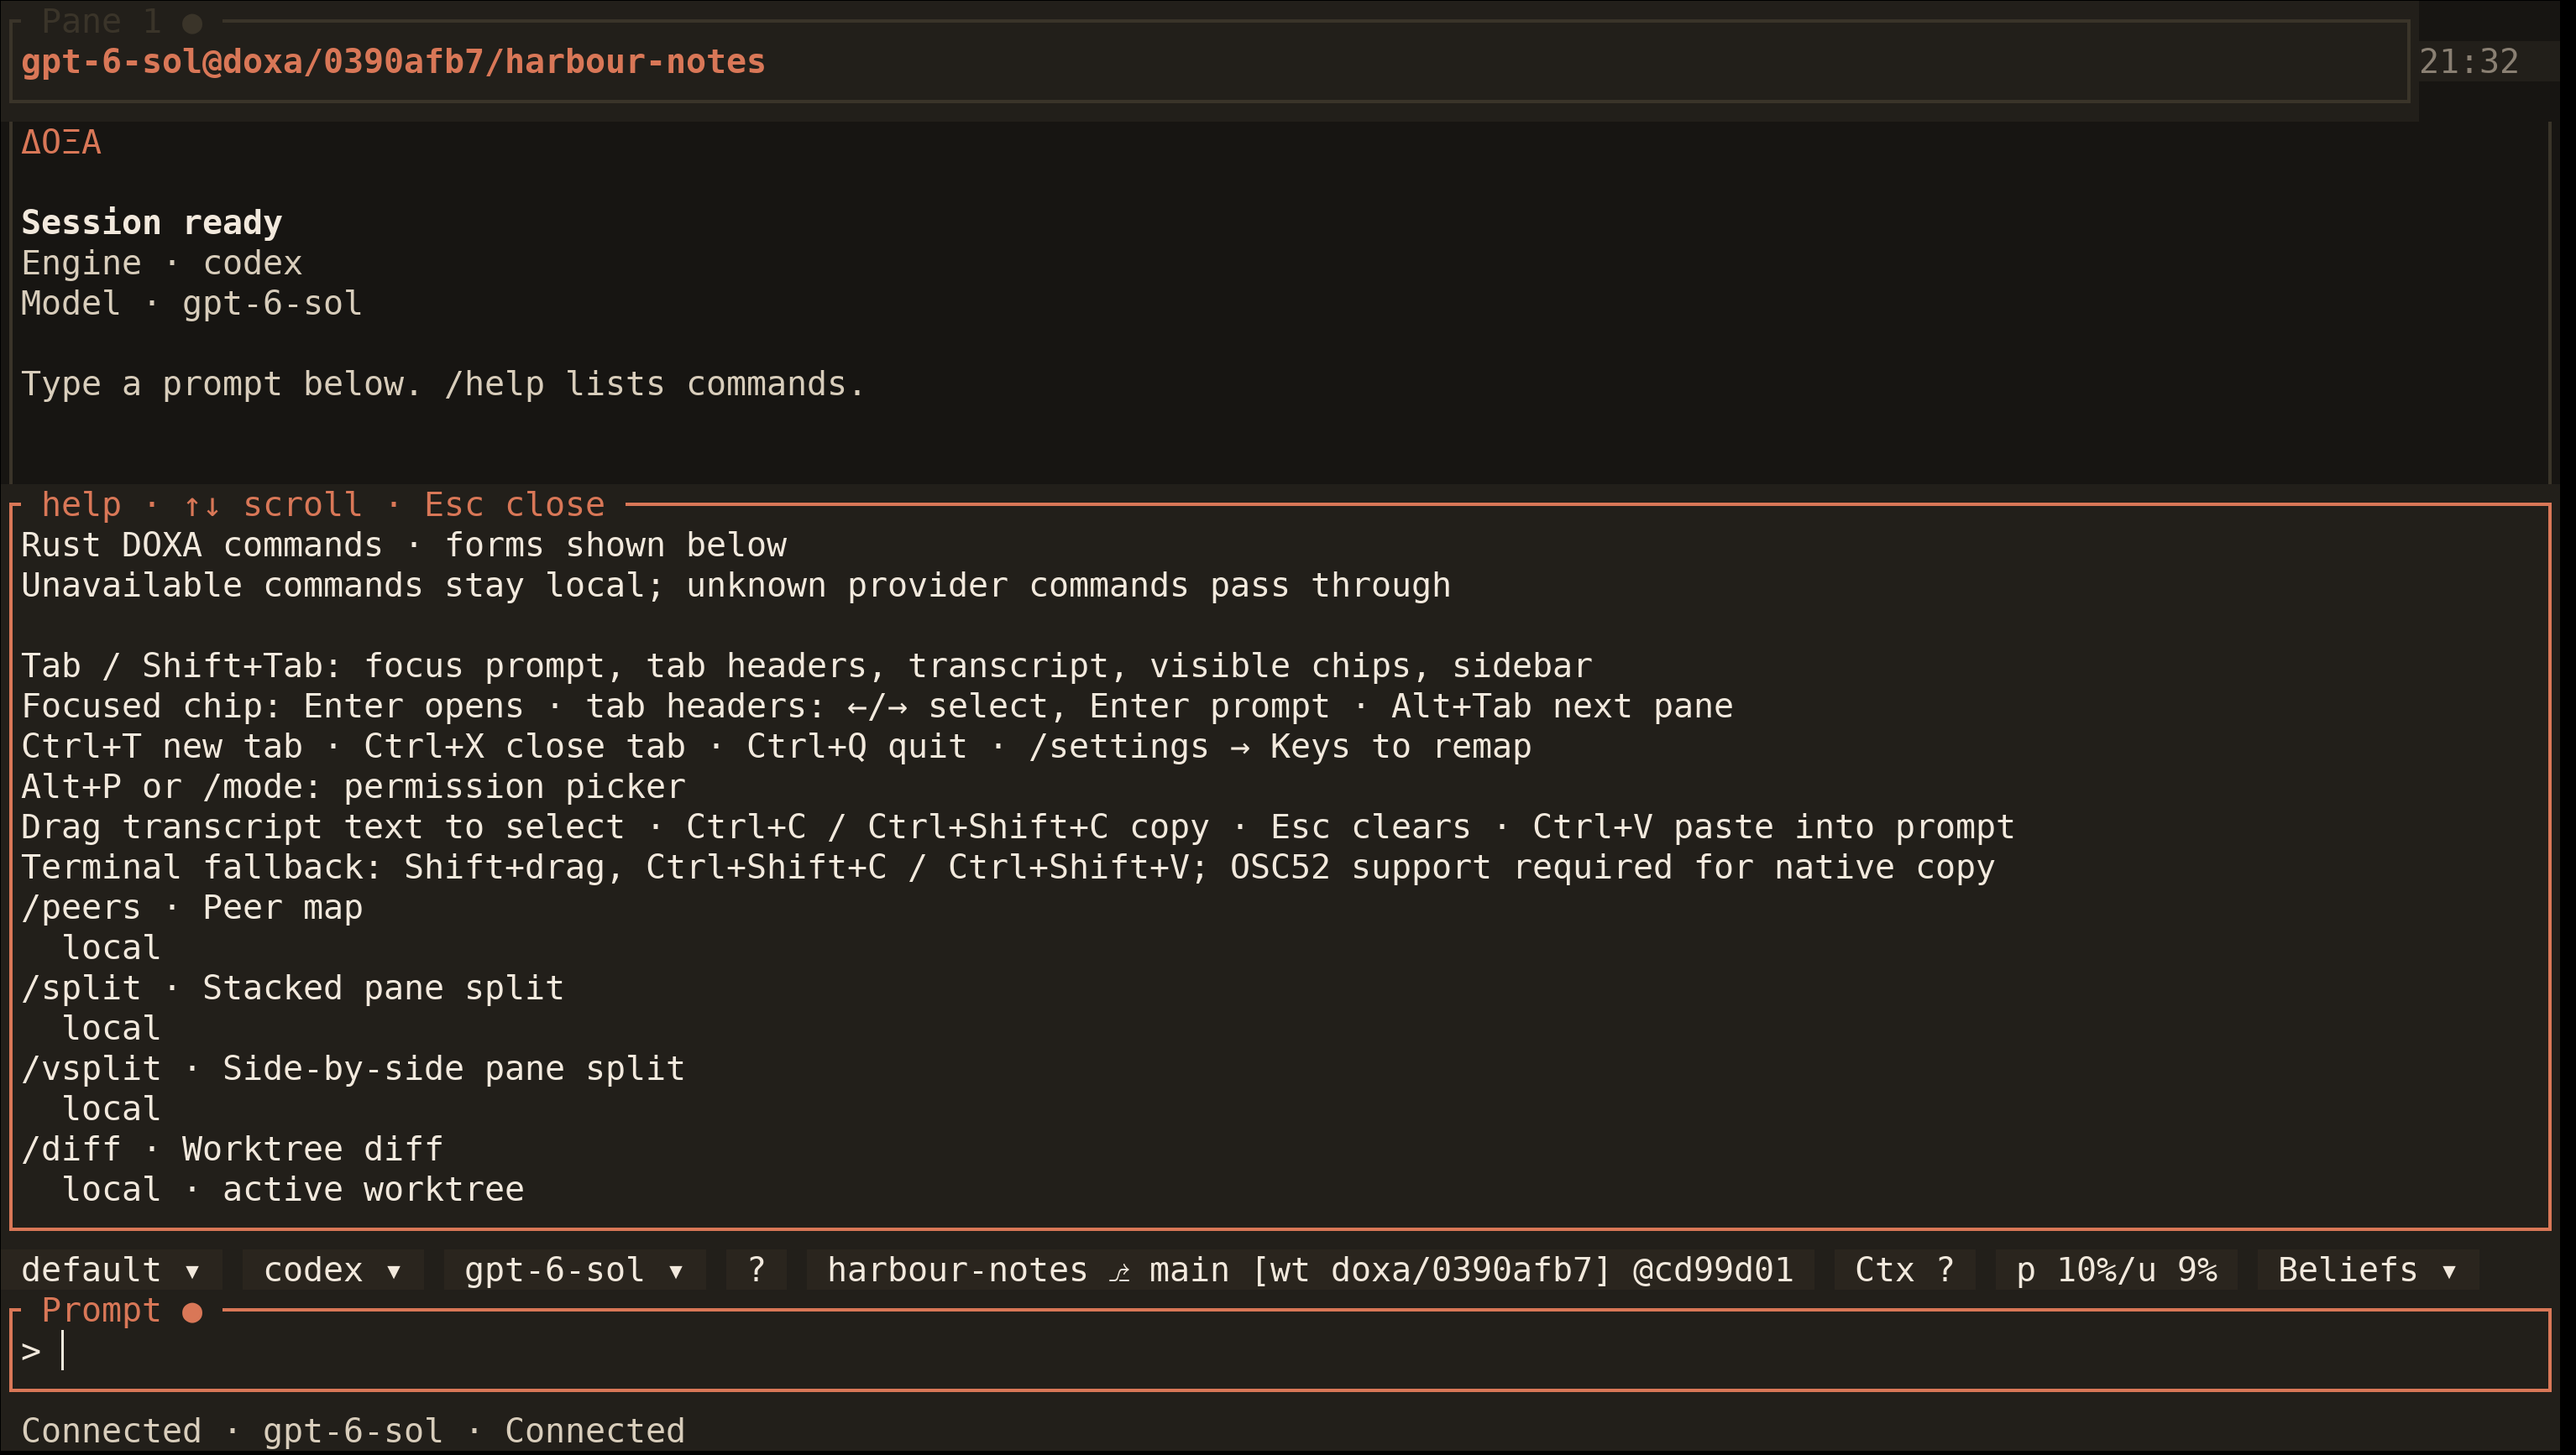
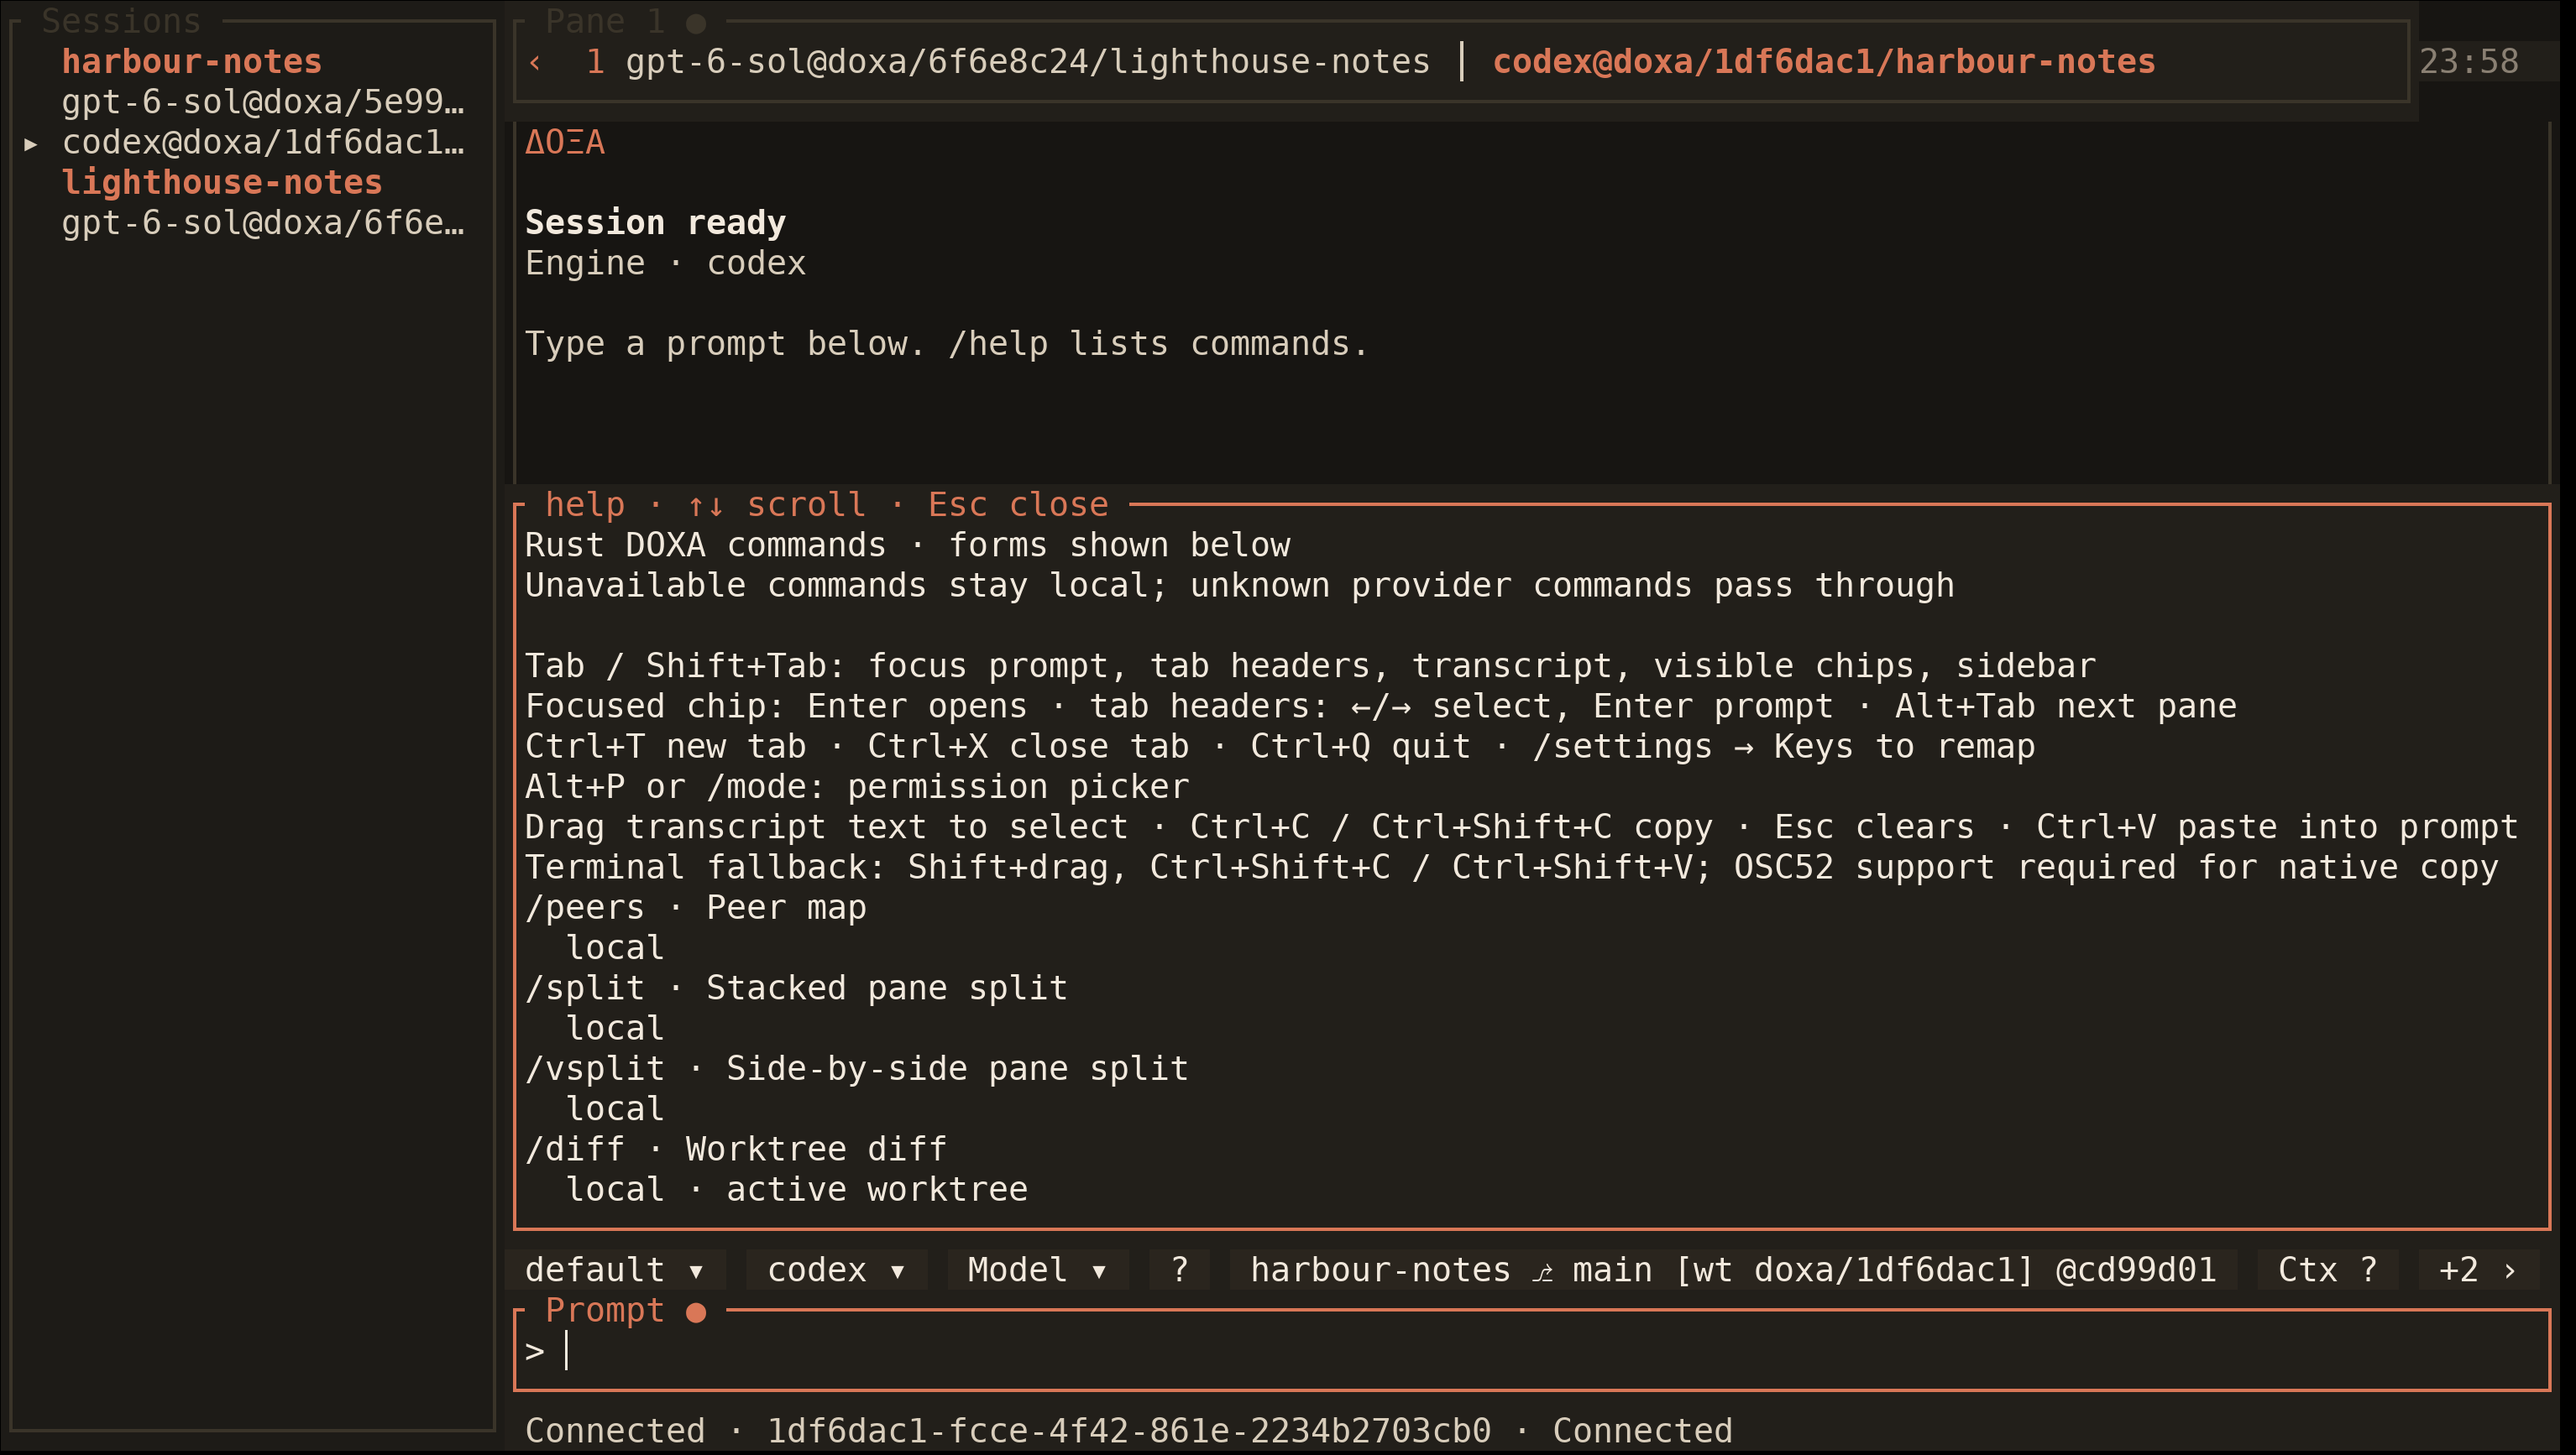
fix(lore): scope pending reviews and refresh grouped gallery
Pin LORE 0.62.9 and publish live grouped-session gallery captures for DOXA 2.0.0-alpha.60.

diff --git a/rust/doxa-tui/src/ui/commands.rs b/rust/doxa-tui/src/ui/commands.rs
@@ -136,7 +136,7 @@ pub(super) const COMMANDS: &[CommandHelp] = &[
     CommandHelp { kind: LocalCommand::Cd, name: "/cd", form: "/cd <path>", summary: "Open directory", support: "local · new tab" },
     CommandHelp { kind: LocalCommand::Memory, name: "/memory", form: "/memory", summary: "LORE curated memory", support: "local · scoped entries; M to add/edit/remove" },
     CommandHelp { kind: LocalCommand::Beliefs, name: "/beliefs", form: "/beliefs", summary: "LORE beliefs", support: "local · requires LORE" },
-    CommandHelp { kind: LocalCommand::Pending, name: "/pending", form: "/pending [--cluster]", summary: "LORE proposals for this project and user", support: "local · requires LORE" },
+    CommandHelp { kind: LocalCommand::Pending, name: "/pending", form: "/pending [--cluster]", summary: "LORE proposals: global and current project", support: "local · requires LORE" },
     CommandHelp { kind: LocalCommand::Pending, name: "/lore:pending", form: "/lore:pending [--cluster]", summary: "LORE pending alias", support: "local · same browser for every engine" },
     CommandHelp { kind: LocalCommand::Search, name: "/search", form: "/search [terms]", summary: "Search saved sessions", support: "local · LORE index then bounded transcript scan" },
     CommandHelp { kind: LocalCommand::Resume, name: "/resume", form: "/resume [session-id]", summary: "Resume conversation", support: "local · new tab" },

diff --git a/rust/doxa-tui/src/ui/lore_controller.rs b/rust/doxa-tui/src/ui/lore_controller.rs
@@ -707,16 +707,16 @@ impl App {
                 picker.review = None;
                 picker.armed_resolution = None;
                 picker.status = if picker.proposals.is_empty() {
-                    "No user or current-project proposals on this page"
+                    "No global or current-project proposals on this page"
                 } else {
-                    "User and current-project proposals · select one for exact review"
+                    "Global and current-project proposals · select one for exact review"
                 }
                 .into();
             }
             Ok(lore_picker::ResultPage::ClusteredProposals(rows, count)) => {
                 picker.all_proposals = rows.clone(); picker.proposals = rows.into_iter().filter(|row| proposal_matches(row, &picker.query)).collect();
                 picker.selected = 0; picker.review = None; picker.armed_resolution = None;
-                picker.status = format!("User + current project · {} memory clusters · {} proposals · Enter exact review", count, picker.proposals.len());
+                picker.status = format!("Global + current project · {} memory clusters · {} proposals · Enter exact review", count, picker.proposals.len());
             }
             Ok(lore_picker::ResultPage::Review(review, can_resolve)) => {
                 if picker.proposal_mode

diff --git a/docs/rust-gallery.md b/docs/rust-gallery.md
@@ -1,30 +1,33 @@
 # Live Rust terminal gallery
 
 The README images were captured on 2026-09-30 from the running **DOXA
-2.0.0-alpha.58** frontend and daemon. A private Xvfb display hosts a real
-GTK3/VTE terminal; FFmpeg records its framebuffer. The gallery uses an
-authenticated Codex CLI 0.156.1, the protected DOXA app server, and native
-LORE 0.62.8. No `TestBackend`, demo engine, fixture events, or composited UI
+2.0.0-alpha.58** frontend and daemon. The grouped-session and help frames were
+recaptured with **alpha.59**, which added project headings. A private Xvfb
+display hosts a real GTK3/VTE terminal; FFmpeg records its framebuffer. The gallery uses an
+authenticated Codex CLI 0.156.1 and the protected DOXA app server. The memory
+and belief frames use native LORE 0.62.8; the two grouped-session captures leave
+LORE disabled. No `TestBackend`, demo engine, fixture events, or composited UI
 mockups appear in these images.
 
 | Image | Live state |
 | --- | --- |
 | `rust-hero.png` | Completed Codex turn with two file reads and folded tool calls |
 | `rust-welcome.png` | Fresh session and block Greek ΔΟΞΑ banner |
-| `rust-sessions.png` | Three real tabs, session rail, and a tab overflow indicator after a mouse-wheel switch |
+| `rust-sessions.png` | Three real tabs grouped under Harbour notes and Lighthouse notes in the session rail |
 | `rust-curated-memory.png` | Native LORE facts in a selectable, scrollable table |
 | `rust-beliefs.png` | Native LORE beliefs with a selected review row |
 | `rust-tool-entries.png` | One actual provider tool call expanded inside the turn |
 | `rust-commands.png` | Slash completion above the prompt |
-| `rust-help.png` | Local command help |
+| `rust-help.png` | Local command help beside the grouped session rail |
 | `rust-settings.png` | Editable Keys settings category |
 
 All nine PNGs measure **3068 × 1734** and use DejaVu Sans Mono 30. The
-captured repository, **Harbour notes**, contains only a README and a greeting
-script made for this gallery. The user and project memory and beliefs were
+captured repositories, **Harbour notes** and **Lighthouse notes**, contain only
+synthetic example files. Lighthouse notes appears only in the two grouped-session
+frames. The user and project memory and beliefs were
 seeded with synthetic statements through the native `lore-rs` carrier. DOXA
-then queried the isolated store normally. The provider read only the two
-example files; it did not edit the repository. The published images contain
+then queried the isolated store normally. The provider read only two Harbour
+notes example files; it did not edit the repository. The published images contain
 no account credentials, personal memory, or private workspace paths.
 
 ## Reproduce a capture
@@ -69,6 +72,12 @@ select a tool, and Enter to expand it. `Ctrl+T` starts the additional tabs;
 wheel input over the tab header switches them. `/help`, `/settings`, `/beliefs`,
 and `/s` expose the other captured states. The script's `text` action reads
 the actual terminal text for state checks, and `status` reports cell geometry.
+
+For `rust-sessions.png`, start a second real session from a separate synthetic
+repository with the same isolated DOXA home and runtime. Detach that TUI with
+Ctrl+Q, then `/attach` its live session from Harbour notes. Create a second
+Harbour notes tab with Ctrl+T and open the rail with `/sidebar`. The capture
+shows both repository headings and three actual session IDs.
 
 Inspect every PNG and its dimensions before copying it from
 `gallery-state/shots` to `assets/shots`. Stop the exact isolated capture

diff --git a/docs/rust-1.19-parity.md b/docs/rust-1.19-parity.md
@@ -1,7 +1,7 @@
 # Rust 2.0 parity with DOXA 1.19.0
 
 Baseline: Python `v1.19.0` production behavior. This tracker records implementation
-through **alpha.59**, with canonical **LORE 0.62.8**. Account checks
+through **alpha.60**, with canonical **LORE 0.62.9**. Account checks
 are bounded by their exact candidate and date.
 The Rust runtime implements the audited workflows below. Live account checks
 remain bounded by the [latest verification record](live-provider-verification-2026-09-29.md)
@@ -47,6 +47,7 @@ coverage alone does not establish authenticated compatibility for every provider
 | Alpha.56 | Close only the active tab with Ctrl+X and leave the TUI with Ctrl+Q while sessions run detached. Use Ctrl+Left/Right for tabs and Shift+Left/Right for pane prompts; verified dead detached sessions leave the rail. |
 | Alpha.57–58 | Configure window shortcuts at runtime; restore session rail focus and overflow navigation; display queued, running and unread states; route pending LORE commands to the local browser. |
 | Alpha.59 | Group uncollected sessions by project; estimate DeepSeek/GLM API spend from reported tokens and published rates; read the Codex subscription quota bucket after turns. |
+| Alpha.60 | Pin LORE 0.62.9 to keep project-bound pending proposals out of unrelated review browsers; recapture two real Rust gallery frames with two project groups. |
 
 Standalone LORE administration, hooks, MCP and network operations are native Rust;
 they are not a remaining Python replacement task. See the
@@ -155,7 +156,7 @@ provenance and no additional tools.
 Alpha.50 supplied the [current event-loop benchmark](rust-ui-benchmark-2026-09-30.md)
 measurements; the [alpha.31 baseline](rust-ui-benchmark-2026-09-27.md) remains
 available. The [gallery](rust-gallery.md) records **alpha.58** live terminal
-captures, including the session rail, tab overflow and both LORE browsers.
+captures for the memory browsers and two **alpha.59** grouped-session captures.
 
 See the [source audit](source-audit-2026-09-27.md) for confirmed follow-up fixes,
 engineering debt and validation limits.

diff --git a/README.md b/README.md
@@ -50,17 +50,17 @@ Ctrl+T opens the new-tab engine picker. Alt+V splits side by side; Alt+H stacks 
 
 DeepSeek and GLM show estimated API cost from provider token counts and published model rates. The estimate uses fresh-input rates (and DeepSeek peak rates), so cache discounts and off-peak billing can make the actual charge lower. Codex subscription usage appears after its app-server reports the Codex quota windows; missing values stay unknown.
 
-`/pending` and `/lore:pending --cluster` open LORE proposals for the current project plus user scope with either engine. `lore status` reports the global pending count across all projects.
+`/pending` and `/lore:pending --cluster` open global LORE proposals plus those for the current project with either engine. `lore status` reports the whole-store pending count across all projects.
 
 ## Gallery
 
-These frames come from the running Rust TUI with isolated DOXA and LORE state. The [capture record](docs/rust-gallery.md) explains the example data and reproduction steps.
+These frames come from the running Rust TUI with isolated DOXA state. The memory frames use an isolated LORE store. The [capture record](docs/rust-gallery.md) explains the example data and reproduction steps.
 
 ### Welcome and sessions
 
 ![The Greek block DOXA banner and a ready session prompt](assets/shots/rust-welcome.png)
 
-![Three sessions in the rail with a tab overflow indicator](assets/shots/rust-sessions.png)
+![Three live sessions grouped under Harbour notes and Lighthouse notes in the rail](assets/shots/rust-sessions.png)
 
 ### Curated memory
 
@@ -78,7 +78,7 @@ These frames come from the running Rust TUI with isolated DOXA and LORE state. T
 
 ![Slash-command completion above the prompt](assets/shots/rust-commands.png)
 
-![The running app's command help](assets/shots/rust-help.png)
+![The running app's command help beside sessions grouped by repository](assets/shots/rust-help.png)
 
 ![The configurable Keys page in DOXA settings](assets/shots/rust-settings.png)
 

diff --git a/CHANGELOG.md b/CHANGELOG.md
@@ -5,6 +5,15 @@ them (`v0.1.0` … `v1.19.0`); the 1.x ranges below are derived from that
 history, not written from memory. Rust alpha tags identify preview snapshots;
 the stable 2.0 release has not been cut.
 
+## 2.0.0-alpha.60 — 2026-10-01
+
+**Project review and gallery**
+
+- Pin **`lore-core`** 0.62.9 and label the pending browser's scope. Project-bound
+  proposals no longer appear in unrelated DOXA review browsers.
+- Replace **`rust-sessions.png`** and **`rust-help.png`** with live alpha.59
+  captures showing three sessions under two example repositories.
+
 ## 2.0.0-alpha.59 — 2026-09-30
 
 **Project navigation and billing**

diff --git a/rust/README.md b/rust/README.md
@@ -2,7 +2,7 @@
 
 Rust is the main DOXA frontend. The installer exposes `doxa`; the compiled
 frontend is `doxa-rs`. Claude uses its native CLI control protocol, Codex uses
-its app server, and API vendors use Rust HTTP clients. Canonical LORE 0.62.8 is an
+its app server, and API vendors use Rust HTTP clients. Canonical LORE 0.62.9 is an
 integrated Rust library for memory, reviews, indexing, and secret scrubbing;
 `lore-rs` also provides detached review and standalone plugin commands.
 The installed runtime requires no Python interpreter.
